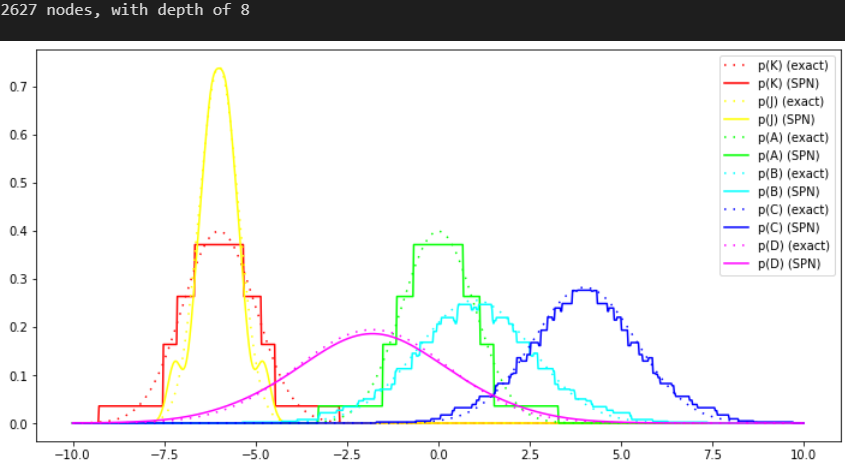
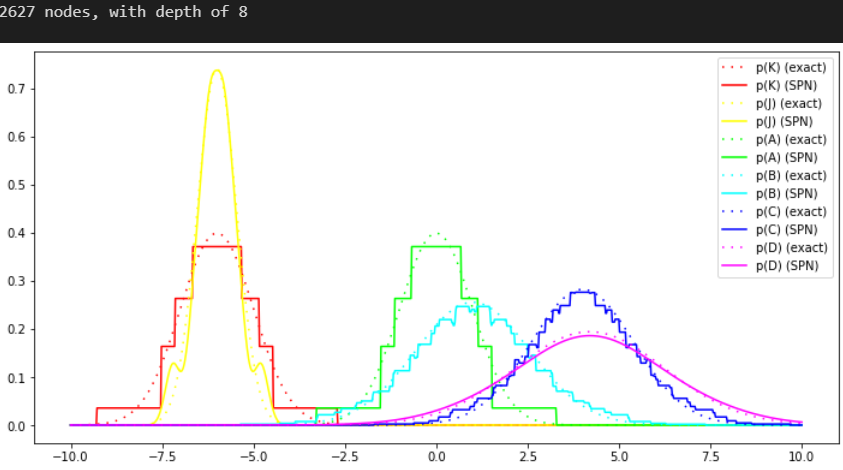
fixed error with how I decompose the mean into intrinsic and from parents

Changed region(s): [[0.0, 0.0896, 1.0, 0.9851], [0.0, 0.0, 0.3084, 0.0597]]

diff --git a/clg_revised.py b/clg_revised.py
@@ -612,7 +612,7 @@ class __intermediate__:
             return self
         
         elif isinstance(other, Norm):
-            self.mean += other.current_mean
+            # self.mean += other.current_mean
             if other.is_noise:
                 self.noise_sd = sqrt(self.noise_sd**2 + other._og_sd**2)
                 return self
